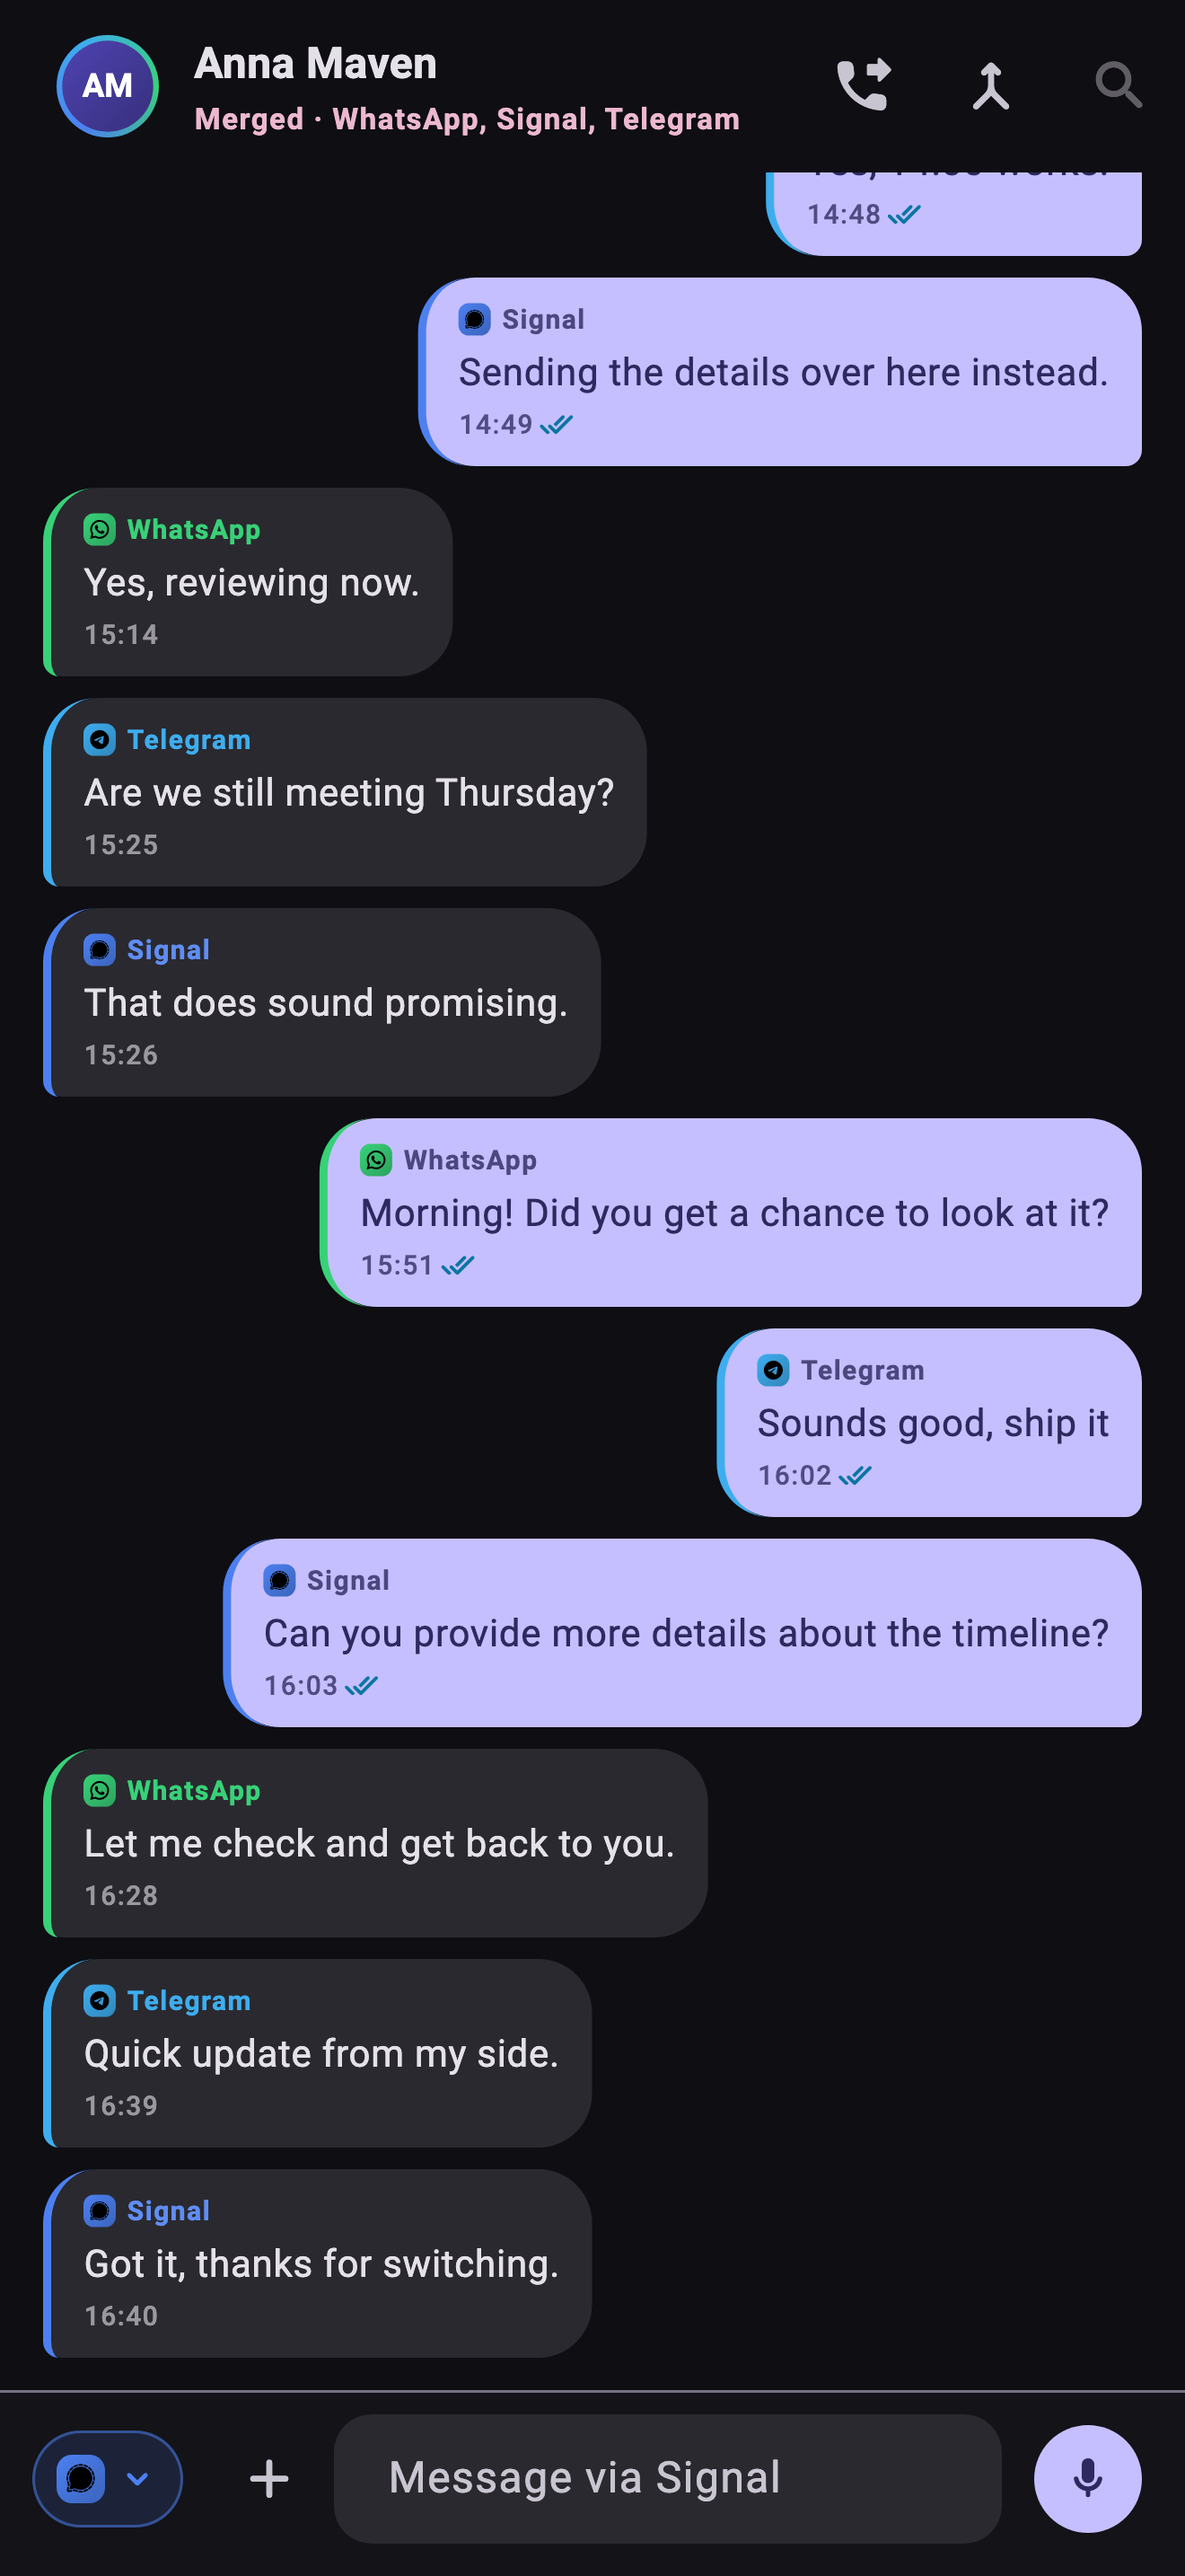
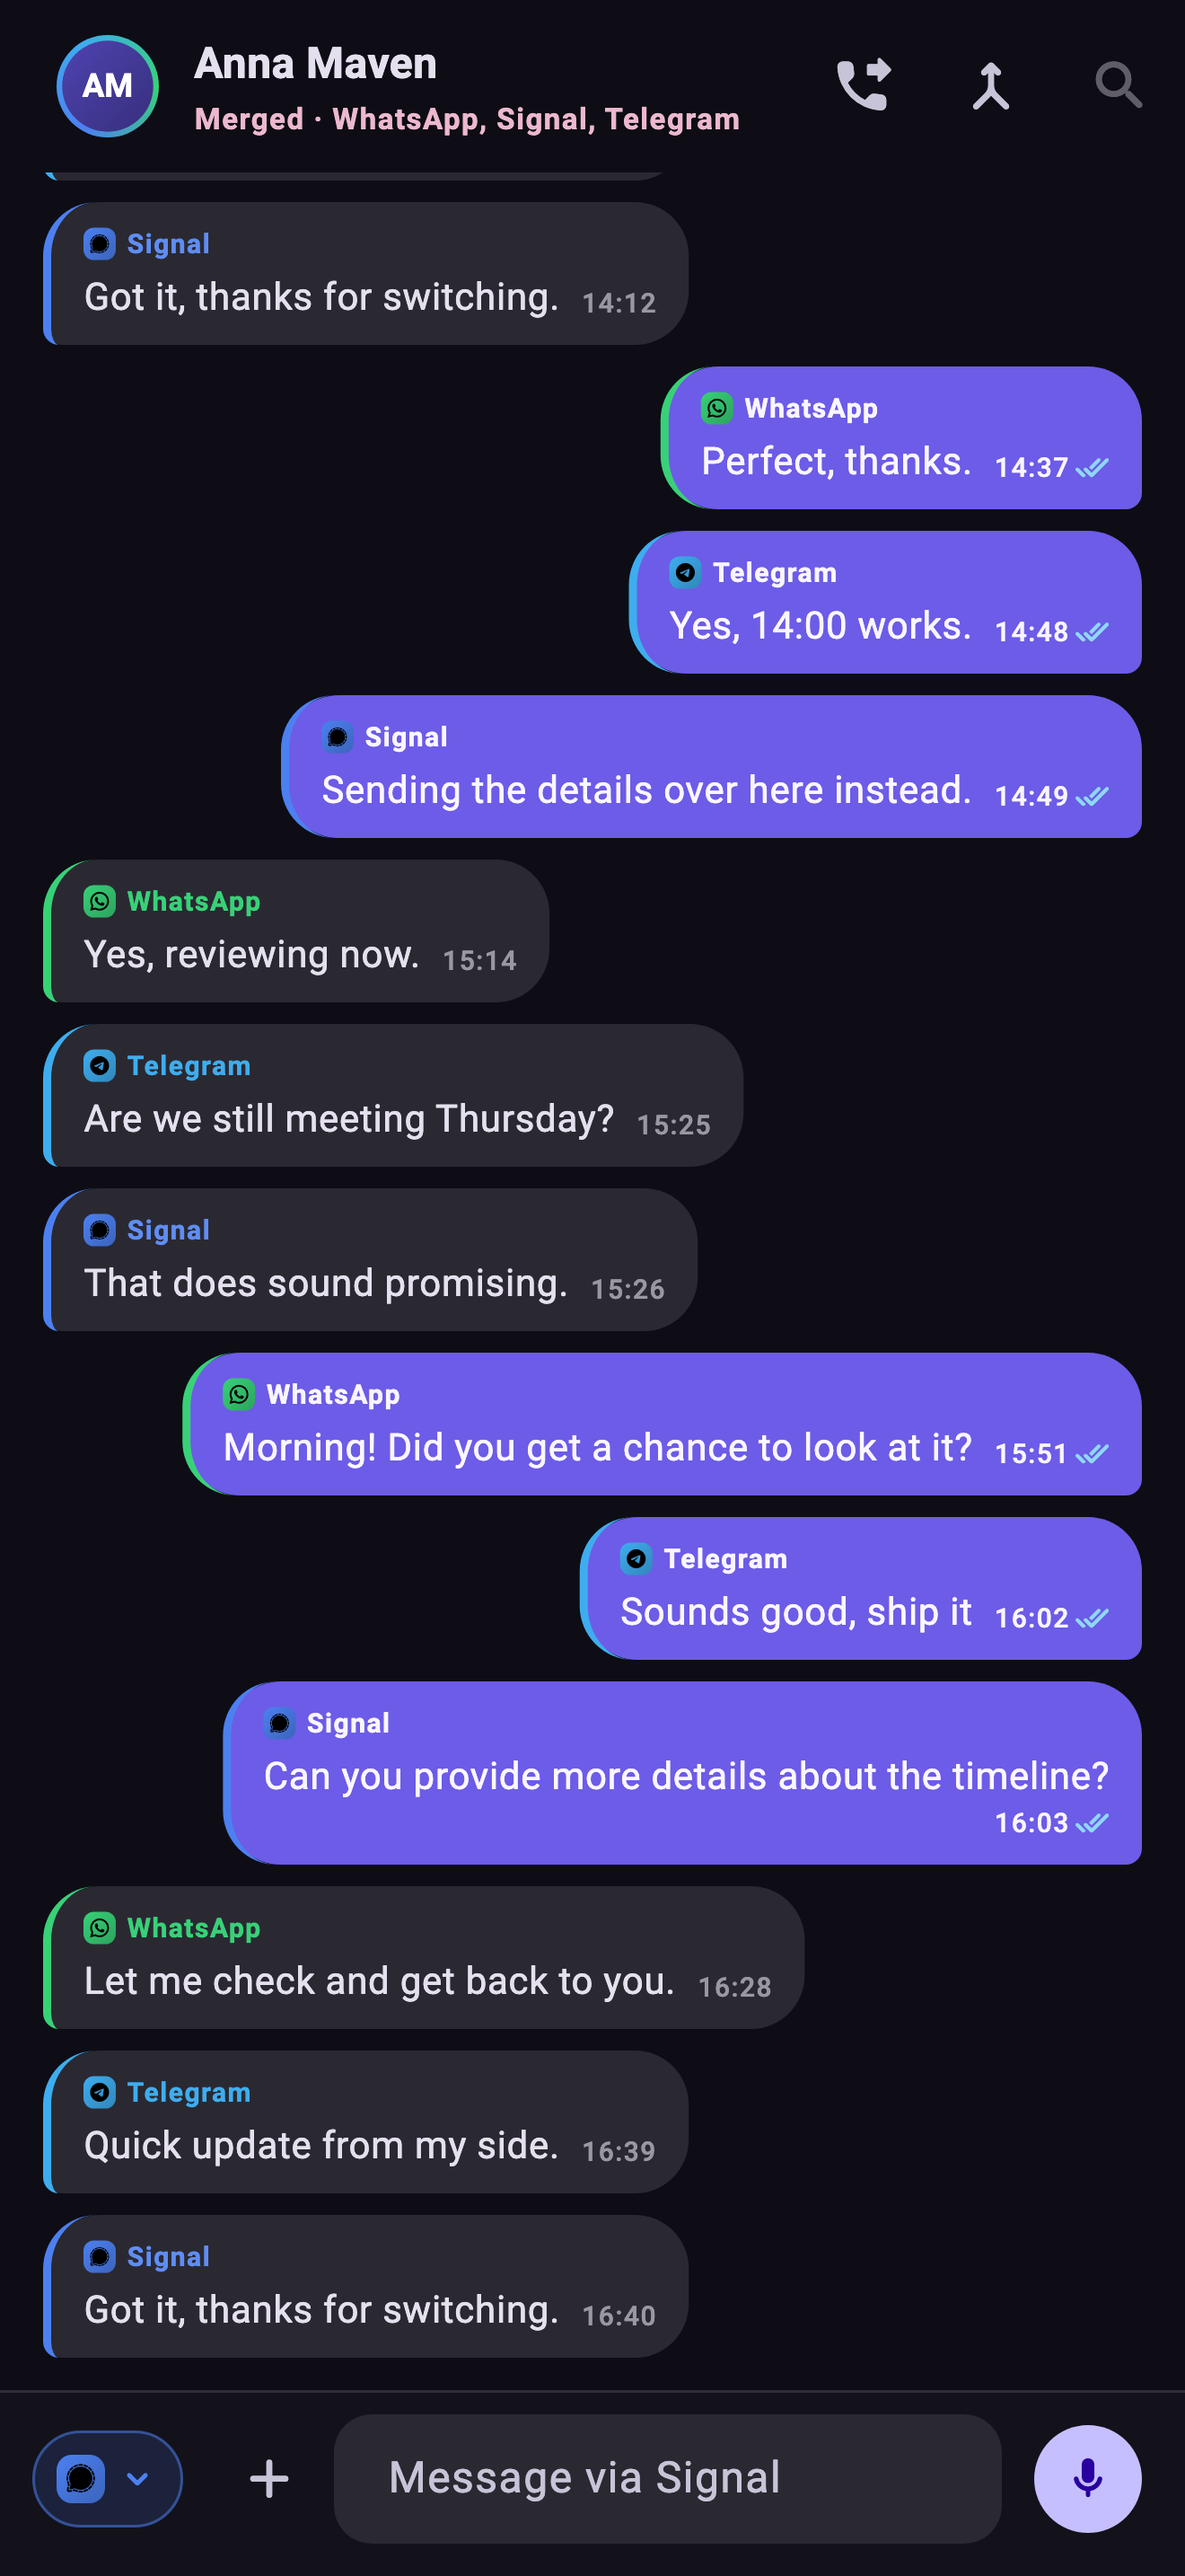
Give the accent its own colour, and settings rows room to breathe
The colour scheme now keeps the chosen accent's chroma instead of Material's
greyed cousin of it, with the tertiary family left on the default derivation
so the Merged pill and the brand gradient stay mauve. The user's own bubble
uses the container tone in the dark theme, and a two-line list row no longer
touches its neighbours.

The store screenshots are rendered again with real shadows, and a design
preview tool renders the same screens for a look before publishing.

The golden files are not regenerated here.

diff --git a/packages/weft_design/lib/src/theme.dart b/packages/weft_design/lib/src/theme.dart
@@ -284,17 +284,42 @@ abstract final class WeftTheme {
     final scheme = ColorScheme.fromSeed(
       seedColor: seed,
       brightness: brightness,
+      // The accent the user picked, as the accent they get. Material's default
+      // variant treats the seed as a hint and hands back a greyed cousin of it
+      // — the default violet came out as slate, and every preset as a muted
+      // version of itself — which is why the unread badge, the send button and
+      // the user's own bubbles all read as "disabled purple". `fidelity` keeps
+      // the seed's own chroma and still derives every on-colour for contrast.
+      dynamicSchemeVariant: DynamicSchemeVariant.fidelity,
       // Material's own high-contrast tone mapping: it pushes the on-colours to
       // the ends of their tonal palettes, which is exactly the adjustment that
       // would otherwise have to be hand-made for every scheme slot.
       contrastLevel: highContrast ? 1.0 : 0.0,
     );
 
+    // …except for the tertiary family, which keeps Material's default
+    // derivation. `fidelity` picks its tertiary by rotating the seed's hue a
+    // fixed distance, and for the default violet that lands on brown: the
+    // "Merged" pill, the merged caption in a conversation's bar and the
+    // brand mark's gradient all turned tan. The default variant's tertiary is
+    // the neighbouring mauve those were designed with.
+    final softer = ColorScheme.fromSeed(
+      seedColor: seed,
+      brightness: brightness,
+      contrastLevel: highContrast ? 1.0 : 0.0,
+    );
+    final seeded = scheme.copyWith(
+      tertiary: softer.tertiary,
+      onTertiary: softer.onTertiary,
+      tertiaryContainer: softer.tertiaryContainer,
+      onTertiaryContainer: softer.onTertiaryContainer,
+    );
+
     // AMOLED pushes the base surface to true black to save power on OLED and
     // to make the accent colours pop, but keeps elevated surfaces lifted so the
     // hierarchy doesn't collapse into an unreadable void.
     final effectiveScheme = amoled && brightness == Brightness.dark
-        ? scheme.copyWith(
+        ? seeded.copyWith(
             surface: const Color(0xFF000000),
             surfaceContainerLowest: const Color(0xFF000000),
             surfaceContainerLow: const Color(0xFF0A0A0C),
@@ -302,7 +327,7 @@ abstract final class WeftTheme {
             surfaceContainerHigh: const Color(0xFF1A1A20),
             surfaceContainerHighest: const Color(0xFF222229),
           )
-        : scheme;
+        : seeded;
 
     final isDark = brightness == Brightness.dark;
     final palette = _paletteFor(
@@ -543,7 +568,11 @@ abstract final class WeftTheme {
       ),
       listTileTheme: ListTileThemeData(
         dense: true,
-        minVerticalPadding: 2,
+        // Room for a second line. At two points a title-and-subtitle row —
+        // which is every row in Settings — had its text touching the row
+        // above and below. A one-line menu item is unaffected: it is already
+        // held open by [minTileHeight].
+        minVerticalPadding: WeftSpace.dense,
         // `dense` shrinks the *text* and leaves the box: a menu of five items
         // still came out 240 points tall, where the system's is nearer 120.
         // The height and the density are what actually move it.
@@ -703,9 +732,17 @@ abstract final class WeftTheme {
       WeftContrast.uiComponent,
     );
 
+    // The user's own bubble is the accent as a *fill* in both themes. In the
+    // light theme that is `primary`. In the dark one `primary` is the pale
+    // tone meant for text on a dark page, and a column of pale lavender
+    // slabs is the brightest thing on a dark screen; the container tone is
+    // the same hue at a depth that sits in the page, with light ink on it.
+    final ownBubble = isDark ? scheme.primaryContainer : scheme.primary;
+    final ownBubbleText = isDark ? scheme.onPrimaryContainer : scheme.onPrimary;
+
     return WeftPalette(
-      ownBubble: scheme.primary,
-      ownBubbleText: scheme.onPrimary,
+      ownBubble: ownBubble,
+      ownBubbleText: ownBubbleText,
       peerBubble: peerBubble,
       peerBubbleText: scheme.onSurface,
       railBackground: amoled
@@ -720,7 +757,7 @@ abstract final class WeftTheme {
       // 13dp tick is a graphic that carries meaning, not body text.
       readReceipt: _ensureOn(
         brandBlue,
-        (_) => [...backgrounds, scheme.primary],
+        (_) => [...backgrounds, ownBubble],
         WeftContrast.uiComponent,
       ),
       callAccept: brandGreen,

diff --git a/apps/weft/test/tools/design_preview_test.dart b/apps/weft/test/tools/design_preview_test.dart
@@ -1,0 +1,108 @@
+@Tags(['preview'])
+library;
+
+import 'dart:io';
+import 'dart:ui' as ui;
+
+import 'package:flutter/material.dart';
+import 'package:flutter/rendering.dart';
+import 'package:flutter/services.dart';
+import 'package:flutter_test/flutter_test.dart';
+import 'package:weft_design/weft_design.dart';
+
+import 'package:weft/features/chat/chat_view.dart';
+import 'package:weft/features/chat/rich_text_view.dart';
+import 'package:weft/features/inbox/inbox_shell.dart';
+
+import '../support/golden_harness.dart';
+
+/// The screens people live in, drawn to disk so a design change can be looked
+/// at rather than imagined.
+///
+///   WEFT_PREVIEW_DIR=/somewhere flutter test \
+///     test/tools/design_preview_test.dart --run-skipped
+///
+/// Asserts nothing and writes outside the repository, which is why it is
+/// tagged out of an ordinary run. Shadows are drawn as shadows — the test
+/// binding paints them as solid black boxes by default, which is right for a
+/// layout golden and wrong for anything meant to be looked at.
+void main() {
+  final out = Platform.environment['WEFT_PREVIEW_DIR'];
+
+  setUpAll(() async {
+    await loadGoldenFonts();
+    final emoji = File('/System/Library/Fonts/Apple Color Emoji.ttc');
+    if (emoji.existsSync()) {
+      final loader = FontLoader('Roboto')
+        ..addFont(Future.value(emoji.readAsBytesSync().buffer.asByteData()));
+      await loader.load();
+    }
+  });
+  setUp(clearMessageDocumentCache);
+
+  const phone = Size(390, 844);
+  const desk = Size(1280, 800);
+
+  final scenes = <(String, Widget, Size, WeftSurface)>[
+    ('phone_inbox', const InboxShell(), phone, WeftSurface.touch),
+    (
+      'phone_chat_merged',
+      const ChatView(chatId: 'merged:anna'),
+      phone,
+      WeftSurface.touch,
+    ),
+    (
+      'phone_chat_group',
+      const ChatView(chatId: '!design_room:example.org'),
+      phone,
+      WeftSurface.touch,
+    ),
+    (
+      'phone_chat_dm',
+      const ChatView(chatId: '!konrad_wa_room:example.org'),
+      phone,
+      WeftSurface.touch,
+    ),
+    (
+      'tablet_inbox',
+      const InboxShell(),
+      const Size(1024, 768),
+      WeftSurface.touch,
+    ),
+    ('mac_window', const InboxShell(), desk, WeftSurface.mac),
+    ('mac_chat', const ChatView(chatId: 'merged:anna'), desk, WeftSurface.mac),
+  ];
+
+  for (final (name, child, size, surface) in scenes) {
+    for (final mode in [WeftThemeMode.light, WeftThemeMode.dark]) {
+      testWidgets('$name ${mode.name}', (tester) async {
+        if (out == null) return;
+        debugDisableShadows = false;
+        try {
+          await pumpWeft(
+            tester,
+            RepaintBoundary(child: child),
+            size: size,
+            mode: mode,
+            surface: surface,
+          );
+          await tester.pumpAndSettle();
+          final boundary = tester.renderObject<RenderRepaintBoundary>(
+            find.byType(RepaintBoundary).first,
+          );
+          await tester.runAsync(() async {
+            final image = await boundary.toImage(pixelRatio: 2);
+            final bytes = await image.toByteData(
+              format: ui.ImageByteFormat.png,
+            );
+            File('$out/${name}_${mode.name}.png')
+              ..createSync(recursive: true)
+              ..writeAsBytesSync(bytes!.buffer.asUint8List());
+          });
+        } finally {
+          debugDisableShadows = true;
+        }
+      });
+    }
+  }
+}
